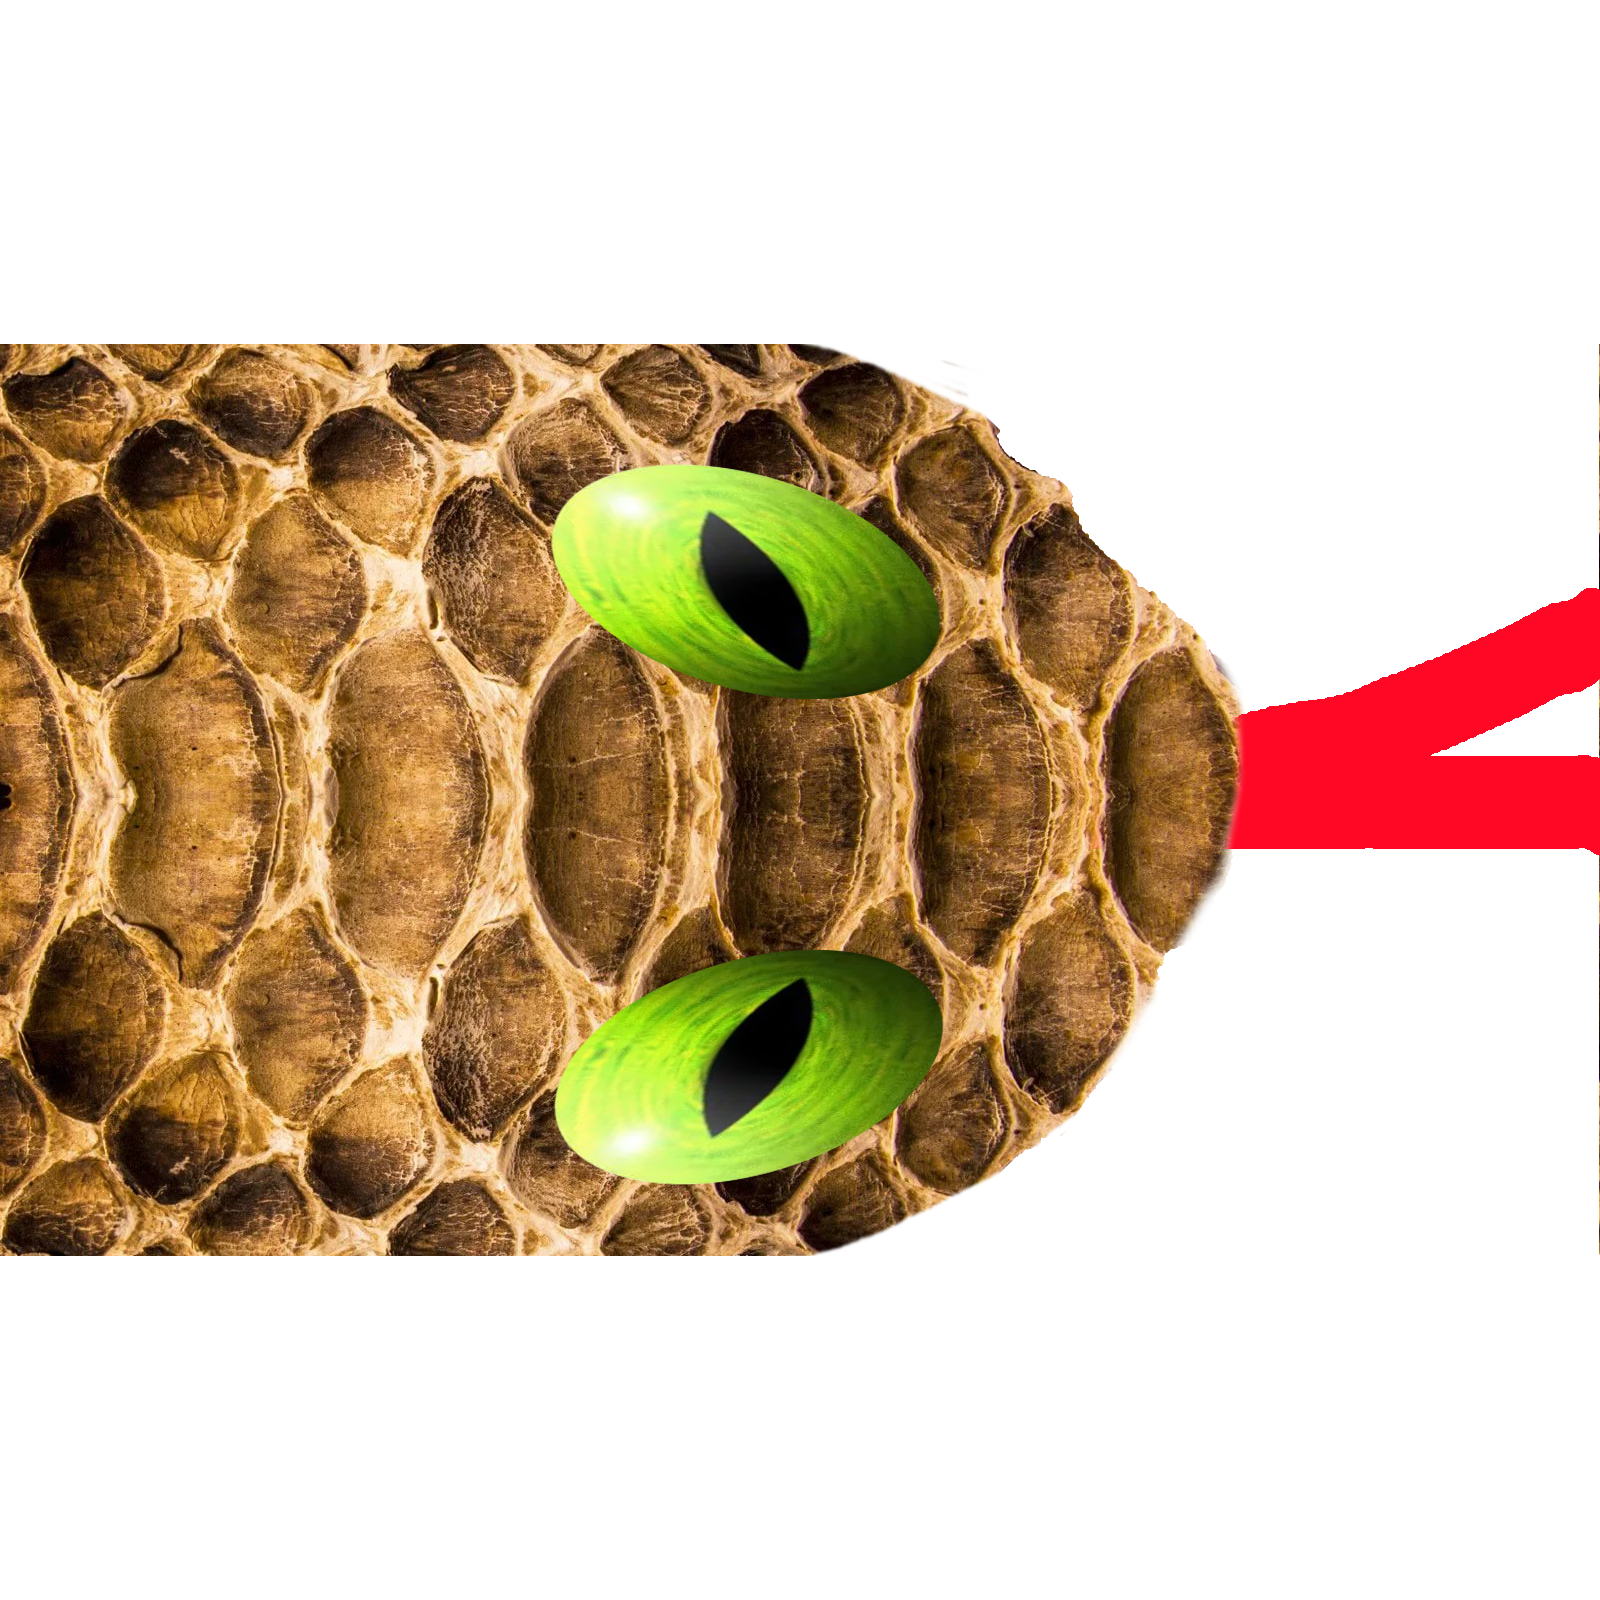
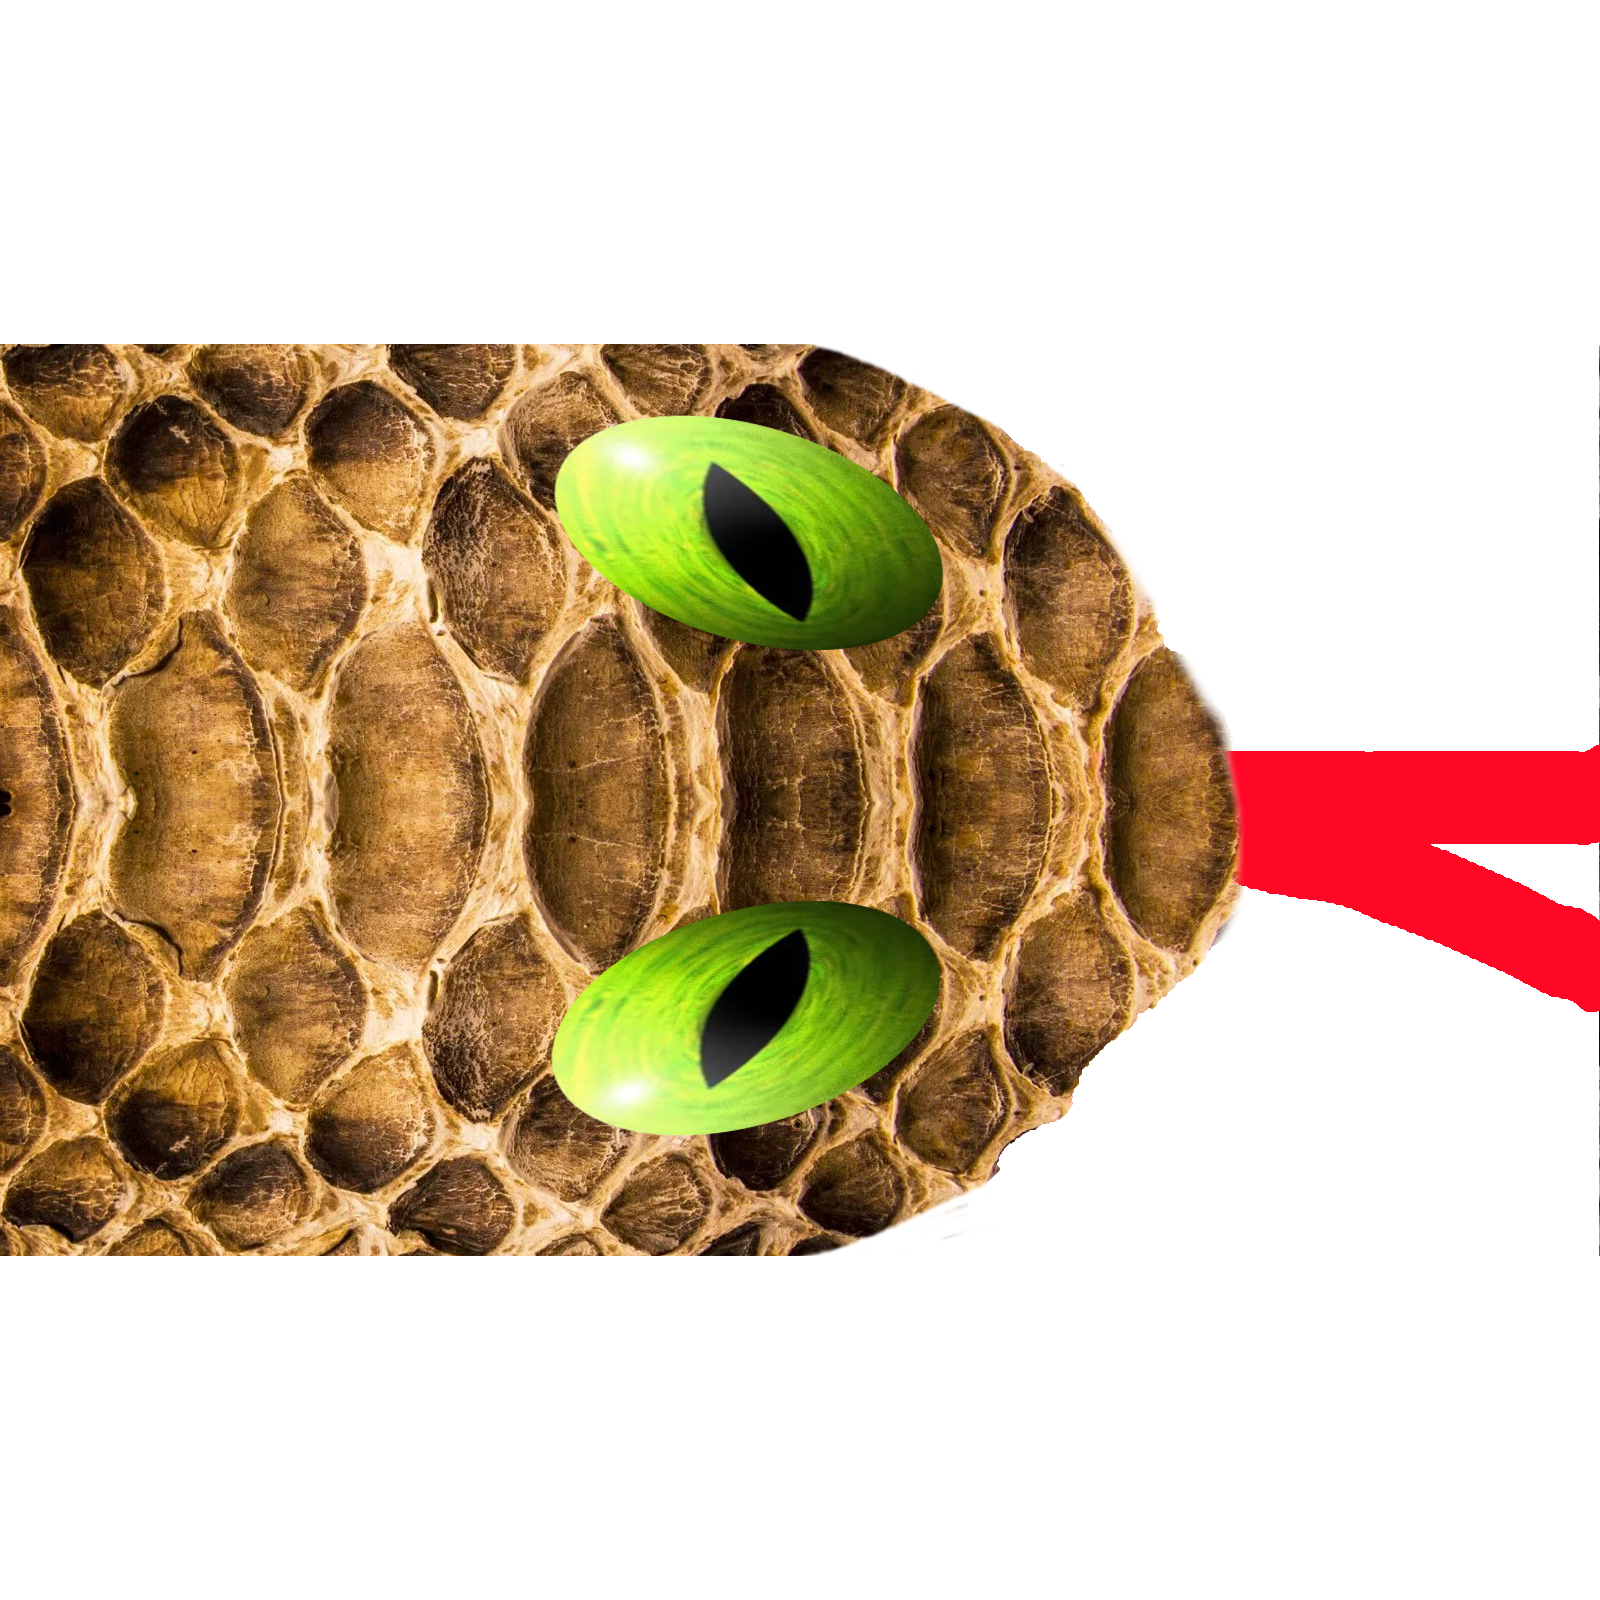
Всем привет с вами Андрей Созыкин

Changed region(s): [[0.0, 0.1875, 1.0, 0.8125], [0.9688, 0.4688, 1.0, 0.5312]]

diff --git a/src/graphics/Gui.java b/src/graphics/Gui.java
@@ -46,6 +46,22 @@ public class Gui extends JPanel implements ActionListener{
         this.mapOfDirections.addAllDirections(Direction.Up, Direction.Right, Direction.Down);
         this.mapOfDirections.addAllDirections(Direction.Right, Direction.Down, Direction.Left);
     }
+    
+    public String nameOfTheObject(PieceOfSnake snakePart, int counter) {
+        if (snakePart.lastPiece == null) {
+        	if (counter % 2 == 0)
+        		return "SnakeTail";
+        	return "SnakeTail2";
+        }
+        if (snakePart.nextPiece == null) {
+        	if (counter % 2 == 0)
+        		return "SnakeHead";
+        	return "SnakeHead2";
+        }
+        if (snakePart.nextPiece.direction != snakePart.direction)
+            return "SnakeTwist";
+        return "SnakePart";
+    }
 
     private Image getImage(ObjectOnField objectOnField) {
         if (!(objectOnField instanceof PieceOfSnake)) {
@@ -56,28 +72,23 @@ public class Gui extends JPanel implements ActionListener{
                 return new ImageIcon(String.format("images/Undefined.png", objectOnField.nameOfTheObject())) .getImage();
             }
         } else {
+        	PieceOfSnake pieceOfSnake = (PieceOfSnake) objectOnField;
             if (objectOnField.nameOfTheObject() == "SnakeHead") {
-                PieceOfSnake pieceOfSnake = (PieceOfSnake) objectOnField;
-                return this.images.get(objectOnField.nameOfTheObject()).get(pieceOfSnake.direction);
+                return this.images.get(nameOfTheObject(pieceOfSnake, counter)).get(pieceOfSnake.direction);
             } if (objectOnField.nameOfTheObject() == "SnakeTail") {
-                PieceOfSnake pieceOfSnake = (PieceOfSnake) objectOnField;
-                return this.images.get(objectOnField.nameOfTheObject()).get(pieceOfSnake.nextPiece.direction);
+            	return this.images.get(nameOfTheObject(pieceOfSnake, counter)).get(pieceOfSnake.nextPiece.direction);
             } if (objectOnField.nameOfTheObject() == "SnakeTwist") {
-                PieceOfSnake pieceOfSnake = (PieceOfSnake) objectOnField;
+                
                 this.initDirectionsOfSnake();
-                return this.images.get(objectOnField.nameOfTheObject()).get(
+                return this.images.get(nameOfTheObject(pieceOfSnake, counter)).get(
                         this.mapOfDirections.get(pieceOfSnake.nextPiece.direction, pieceOfSnake.direction)
                 );
             }
             if (objectOnField.nameOfTheObject() == "SnakePart") {
-                PieceOfSnake pieceOfSnake = (PieceOfSnake) objectOnField;
-                if (pieceOfSnake.direction == Direction.Down || pieceOfSnake.direction == Direction.Up) {
-                    return this.images.get(objectOnField.nameOfTheObject()).get(Direction.Up);
-                } else {
-                    return this.images.get(objectOnField.nameOfTheObject()).get(Direction.Right);
-                }
+                return this.images.get(nameOfTheObject(pieceOfSnake, counter)).get(pieceOfSnake.direction);
+                
             }
-            return this.images.get(objectOnField.nameOfTheObject()).get(Direction.None);
+            return this.images.get(nameOfTheObject(pieceOfSnake, counter)).get(Direction.None);
         }
     }
 
@@ -133,11 +144,13 @@ public class Gui extends JPanel implements ActionListener{
         }
     }
 
+    int counter = 0;
 
     @Override
     public void actionPerformed(ActionEvent e) {
         this.game.snake.toInteractWithObject(this.field);
         if (!this.game.isEndGame()) {
+        	counter++;
             this.field.appleGenerator();
         } else {
             this.game.startNewGame();

diff --git a/src/objects/PieceOfSnake.java b/src/objects/PieceOfSnake.java
@@ -5,8 +5,6 @@ import game.Direction;
 import game.Field;
 import game.Snake;
 
-import java.sql.Array;
-
 public class PieceOfSnake extends ImpenetrableObject {
 
     public PieceOfSnake lastPiece;
@@ -40,7 +38,9 @@ public class PieceOfSnake extends ImpenetrableObject {
     }
 
     public static String[] typesOfPieces = {"SnakeTail",
+    										"SnakeTail2",
                                             "SnakeHead",
+                                            "SnakeHead2",
                                             "SnakeTwist",
                                             "SnakePart"};
 }
